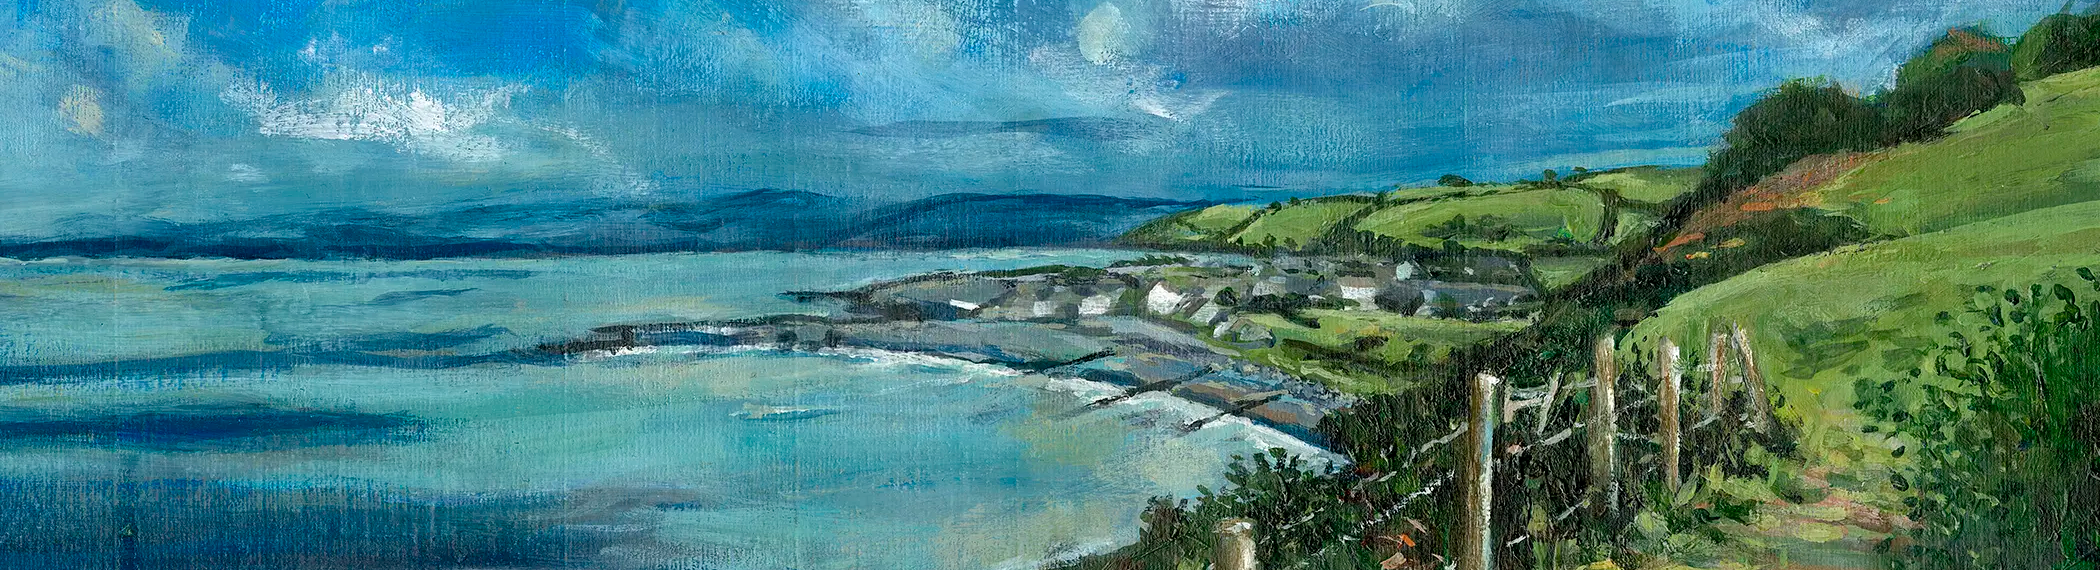
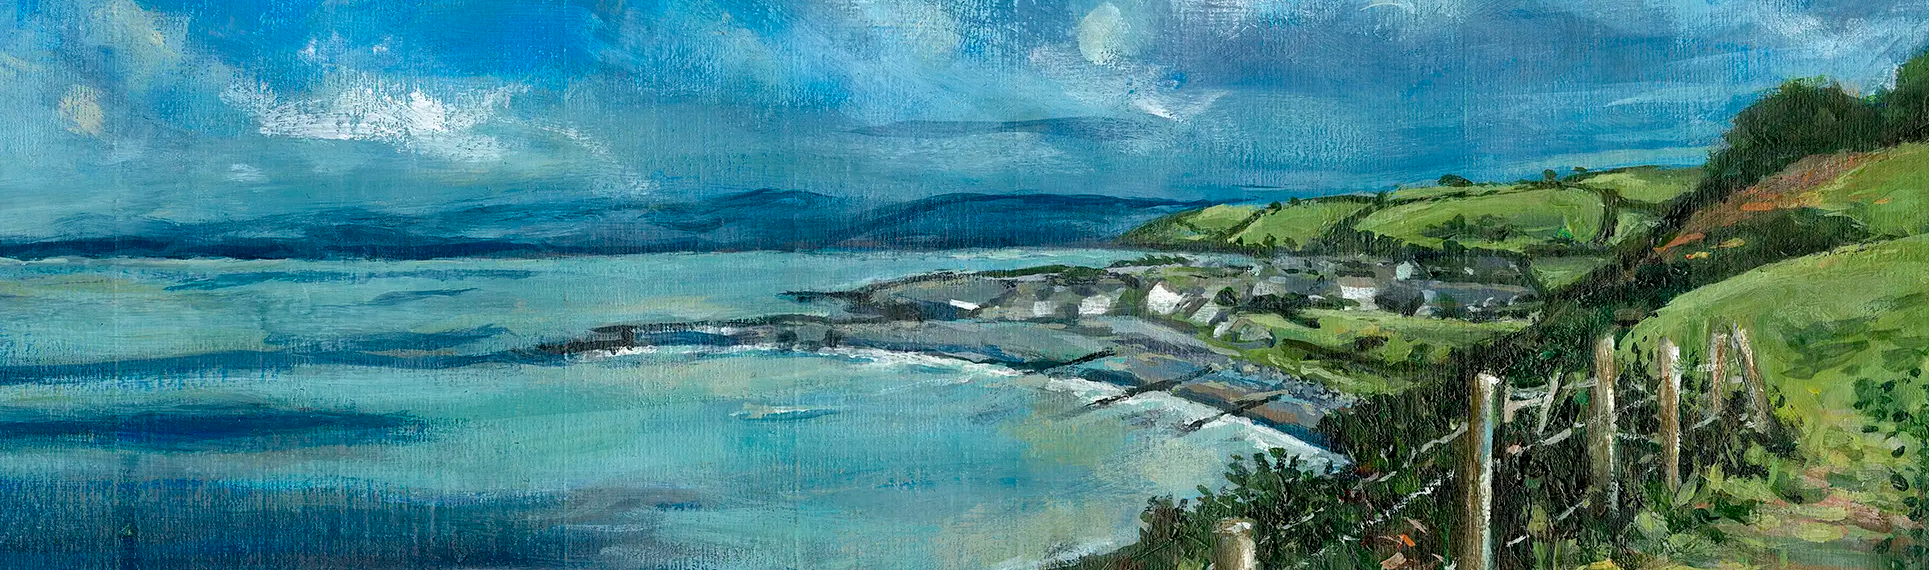
Altered contact image as I realised it was going beyond the width of the webpage. Also changed the contact img css within media queries as it wasn't responsive on mobile. Changed background colour.

diff --git a/assets/css/style.css b/assets/css/style.css
@@ -53,6 +53,7 @@ header {
 body {
     font-family: 'Merriweather Sans', sans-serif;
     color: #0590AEff;
+    background-color: #F8F6F0ff;
 }
 
 
@@ -169,7 +170,7 @@ body {
 
     /* Contact section */
 
-.aberaeron-container {
+.aberaeron-container img {
     width: 100%;
     height: 600px;
     margin-bottom: 10px;
@@ -307,6 +308,7 @@ footer {
         width: 300px;
         height: 200px;
         border: 0;
+        margin-bottom: 10px;
         
     }
 }
@@ -314,15 +316,16 @@ footer {
 /* Media query for Contact Image */
 
 @media screen and (max-width: 768px) {
-    .aberaeron-container {
+    .aberaeron-container img {
         width: 100%;
         height: 450px;
     }
 }
 
 @media screen and (max-width: 480px) {
-    .aberaeron-container {
+    .aberaeron-container img {
         width: 100%;
         height: 300px;
     }
 }
+

diff --git a/contact.html b/contact.html
@@ -34,7 +34,7 @@
 
     <section>
         <div class="aberaeron-container">
-            <img src="assets/images/ContactImg.webp" alt="Coastal path in Aberaeron" class="full-width-image">
+            <img src="assets/images/ContactImg.webp" alt="Coastal path in Aberaeron">
         </div>
     </section>
     <br>
